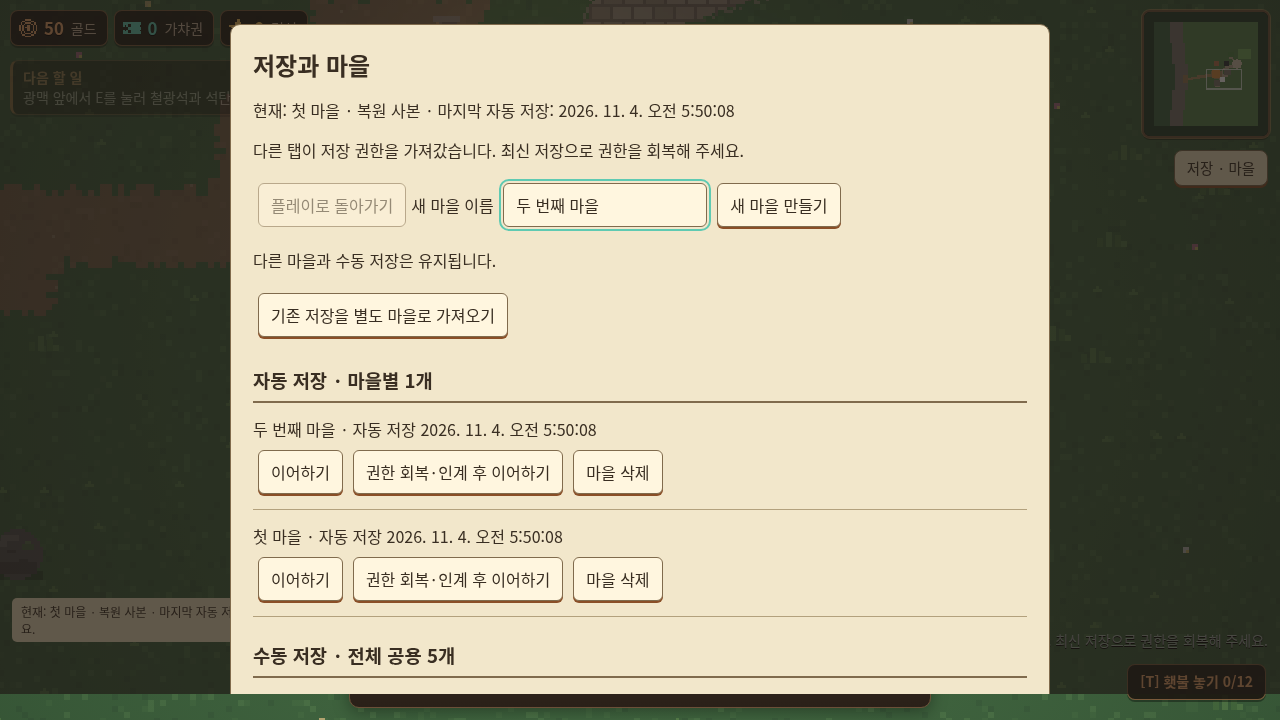
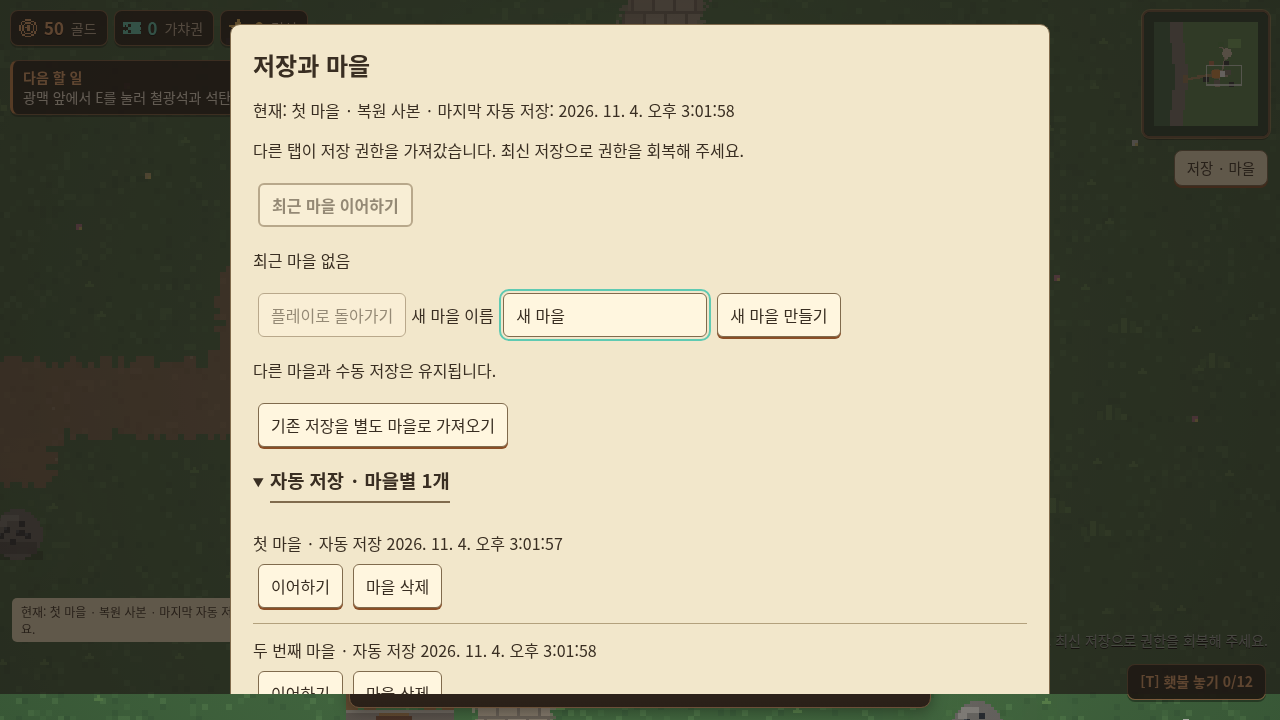
feat: streamline recent village resume and mobile save navigation

diff --git a/js/save-runtime.js b/js/save-runtime.js
@@ -15,7 +15,7 @@ const S2Runtime = {
   fresh(){return this.payload(freshRunState(),JSON.parse(this.initialPermanent));},
   enqueue(fn){const job=this.tail.then(fn);this.tail=job.catch(()=>{});return job;},
   fail(error){
-    const labels={OWNERSHIP:'다른 탭이 저장 권한을 가져갔습니다. 최신 저장으로 권한을 회복해 주세요.',OWNED:'다른 탭 또는 이전 세션이 소유 중입니다. 권한 인계를 선택해 주세요.',CONFLICT:'저장이 변경됐습니다. 목록을 새로 확인해 주세요.',INVALID_SAVE:'손상되었거나 지원하지 않는 저장입니다. 원본은 유지됩니다.',MISSING:'마을이 삭제됐습니다. 다른 마을을 선택해 주세요.',LEGACY_CHANGED:'기존 저장이 변경됐습니다. 다시 확인해 주세요.',UNAVAILABLE:'브라우저 저장소를 사용할 수 없습니다. 기존 저장은 유지됩니다.'};
+    const labels={CANCELED:'이어하기를 취소했습니다.',OWNERSHIP:'다른 탭이 저장 권한을 가져갔습니다. 최신 저장으로 권한을 회복해 주세요.',OWNED:'다른 탭 또는 이전 세션이 소유 중입니다. 권한 인계를 선택해 주세요.',CONFLICT:'저장이 변경됐습니다. 목록을 새로 확인해 주세요.',INVALID_SAVE:'손상되었거나 지원하지 않는 저장입니다. 원본은 유지됩니다.',MISSING:'마을이 삭제됐습니다. 다른 마을을 선택해 주세요.',LEGACY_CHANGED:'기존 저장이 변경됐습니다. 다시 확인해 주세요.',UNAVAILABLE:'브라우저 저장소를 사용할 수 없습니다. 기존 저장은 유지됩니다.'};
     this.message=labels[error.code]||'저장 실패: 저장 공간 또는 브라우저 권한을 확인해 주세요. 이전 저장은 유지됩니다.';
     if(['OWNERSHIP','MISSING'].includes(error.code)){this.session=null;this.generation++;this.menuOpen=true;this.clearInput();}
     this.status();return false;
@@ -62,7 +62,30 @@ const S2Runtime = {
     });
   },
   newVillage(name){return this.transition(current=>this.engine.create(this.fresh(),name||'새 마을',current));},
-  resume(id,takeover=false){return this.transition(async current=>{const candidate=await this.engine.read(id);this.decode(candidate.snapshot.payload);return this.engine.claim(id,takeover,current,candidate);});},
+  async startPresence(){
+    if(!navigator.locks)return;
+    // Owner liveness is a document-lifetime lock, never a heartbeat timeout.
+    await new Promise((resolve,reject)=>{
+      this.presenceTask=navigator.locks.request(SAVE_BASE_KEY+'.s2.owner.'+this.engine.owner,async()=>{
+        this.engine.presenceProtocol='web-lock-v1';resolve();
+        await new Promise(release=>{this.releasePresence=release;});
+      }).catch(reject);
+    });
+  },
+  resume(id,takeover=false){return this.transition(async current=>{
+    const candidate=await this.engine.read(id);this.decode(candidate.snapshot.payload);
+    const claim=(force=false,recover=null)=>this.engine.claim(id,force,current,candidate,recover);
+    if(takeover||!candidate.owner||candidate.owner===this.engine.owner)return claim(takeover);
+    const confirmLive=()=>{
+      if(!confirm('다른 탭이 사용 중이거나 권한 상태를 확인할 수 없습니다. 저장 권한을 인계하고 마지막 저장부터 이어 할까요? 저장되지 않은 진행은 가져오지 않습니다.'))throw SaveEngine.error('CANCELED');
+      return claim(true);
+    };
+    if(candidate.presence==='web-lock-v1'&&navigator.locks){
+      // Hold this old-owner lock through the fenced IDB claim (no check/use gap).
+      return navigator.locks.request(SAVE_BASE_KEY+'.s2.owner.'+candidate.owner,{ifAvailable:true},lock=>lock?claim(false,candidate.owner):confirmLive());
+    }
+    return confirmLive();
+  });},
   restore(row){return this.transition(async current=>{this.decode(row.snapshot.payload);return this.engine.restore(current,row.id,row.revision,row.snapshot.id);});},
   manual(slot,expected){
     if(!this.session||this.transitioning)return Promise.resolve(false);
@@ -102,7 +125,7 @@ const S2Runtime = {
   async start(){
     this.started=true;this.initialPermanent=JSON.stringify(permanent);this.mount();this.menuOpen=true;this.status();
     try{
-      this.engine=await SaveEngine.open(SAVE_BASE_KEY);
+      this.engine=await SaveEngine.open(SAVE_BASE_KEY);await this.startPresence();
       const history=await this.engine.history(SAVE_BASE_KEY),raw=localStorage.getItem(SAVE_BASE_KEY);
       let migrated=null;
       if(raw!==null&&!history.length)migrated=await this.importLegacy();
@@ -125,7 +148,9 @@ const S2Runtime = {
   mount(){
     const button=document.createElement('button');button.id='s2Open';button.type='button';button.textContent='저장 · 마을';button.onclick=()=>{this.menuOpen=true;this.clearInput();this.renderMenu();this.status();this.root.querySelector('[data-s2-close]').focus();};document.body.appendChild(button);
     const status=document.createElement('div');status.id='s2Status';status.setAttribute('role','status');document.body.appendChild(status);
-    const root=document.createElement('section');root.id='s2Menu';root.tabIndex=-1;root.setAttribute('role','dialog');root.setAttribute('aria-modal','true');root.setAttribute('aria-label','저장과 마을 관리');root.innerHTML='<div class="s2-paper"><h2>저장과 마을</h2><p data-s2-current></p><p data-s2-message role="status"></p><button type="button" data-s2-close>플레이로 돌아가기</button><label>새 마을 이름 <input data-s2-name maxlength="40" value="새 마을"></label><button type="button" data-s2-new>새 마을 만들기</button><p>다른 마을과 수동 저장은 유지됩니다.</p><button type="button" data-s2-import>기존 저장을 별도 마을로 가져오기</button><h3>자동 저장 · 마을별 1개</h3><div data-s2-autos></div><h3>수동 저장 · 전체 공용 5개</h3><div data-s2-manuals></div></div>';document.body.appendChild(root);this.root=root;
+    const root=document.createElement('section');root.id='s2Menu';root.tabIndex=-1;root.setAttribute('role','dialog');root.setAttribute('aria-modal','true');root.setAttribute('aria-label','저장과 마을 관리');root.innerHTML='<div class="s2-paper"><h2>저장과 마을</h2><p data-s2-current></p><p data-s2-message role="status"></p><button type="button" data-s2-recent disabled>최근 마을 이어하기</button><p data-s2-recent-label></p><button type="button" data-s2-close>플레이로 돌아가기</button><label>새 마을 이름 <input data-s2-name maxlength="40" value="새 마을"></label><button type="button" data-s2-new>새 마을 만들기</button><p>다른 마을과 수동 저장은 유지됩니다.</p><button type="button" data-s2-import>기존 저장을 별도 마을로 가져오기</button><details data-s2-auto-section open><summary><h3>자동 저장 · 마을별 1개</h3></summary><div data-s2-autos></div></details><details data-s2-manual-section open><summary><h3>수동 저장 · 전체 공용 5개</h3></summary><div data-s2-manuals></div></details></div>';document.body.appendChild(root);this.root=root;
+    if(typeof matchMedia==='function'&&matchMedia('(max-width:600px)').matches)root.querySelector('[data-s2-manual-section]').open=false;
+    root.querySelector('[data-s2-recent]').onclick=()=>{if(this.recentId)this.resume(this.recentId);};
     root.querySelector('[data-s2-close]').onclick=()=>{if(this.session){this.menuOpen=false;this.status();button.focus();}};
     root.querySelector('[data-s2-new]').onclick=()=>this.newVillage(root.querySelector('[data-s2-name]').value.trim()||'새 마을');
     root.querySelector('[data-s2-import]').onclick=()=>{
@@ -138,7 +163,7 @@ const S2Runtime = {
       if(root.contains(e.target)||button.contains(e.target)){
         if(e.type==='keydown'&&e.key==='Escape'&&this.session){this.menuOpen=false;this.status();button.focus();e.preventDefault();}
         if(e.type==='keydown'&&e.key==='Tab'){
-          const elements=[...root.querySelectorAll('button:not(:disabled),input')].filter(x=>!x.hidden),first=elements[0],last=elements.at(-1);
+          const elements=[...root.querySelectorAll('button:not(:disabled),input,summary')].filter(x=>!x.hidden&&x.getClientRects().length),first=elements[0],last=elements.at(-1);
           if(e.shiftKey&&document.activeElement===first){e.preventDefault();last?.focus();}else if(!e.shiftKey&&document.activeElement===last){e.preventDefault();first?.focus();}
         }
         // Prevent letter shortcuts in the game from handling dialog keys.
@@ -155,12 +180,15 @@ const S2Runtime = {
     this.root.querySelector('[data-s2-import]').disabled=!this.engine||this.transitioning;
     if(!this.engine){if(this.menuOpen)this.root.focus();return;}
     try{
-      const data=await this.engine.list();
+      const data=await this.engine.list();this.recentId=data.recent;
+      const recent=data.villages.find(v=>v.id===data.recent);
+      this.root.querySelector('[data-s2-recent]').disabled=!recent||this.transitioning;
+      this.root.querySelector('[data-s2-recent-label]').textContent=recent?'최근 플레이: '+recent.name:'최근 마을 없음';
       const stamp=n=>new Date(n).toLocaleString('ko-KR');
       const add=(host,text,buttons)=>{const row=document.createElement('div');row.className='s2-row';const label=document.createElement('p');label.textContent=text;row.appendChild(label);for(const [name,fn,disabled]of buttons){const b=document.createElement('button');b.type='button';b.textContent=name;b.disabled=!!disabled||this.transitioning;b.onclick=fn;row.appendChild(b);}host.appendChild(row);};
       const autos=this.root.querySelector('[data-s2-autos]');autos.textContent='';
-      for(const v of data.villages){add(autos,(v.id===this.session?.id?'현재 플레이 · ':'')+v.name+' · 자동 저장 '+stamp(v.savedAt)+(v.source?' · 복원 사본':''),[
-        ['이어하기',()=>this.resume(v.id)],['권한 회복·인계 후 이어하기',()=>{if(confirm('다른 탭의 저장 권한을 해제하고 마지막 저장부터 이어 합니다. 저장되지 않은 진행은 가져오지 않습니다.'))this.resume(v.id,true);}],
+      for(const v of data.villages){add(autos,(v.id===this.session?.id?'현재 플레이 · ':'')+(v.id===data.recent?'최근 마을 · ':'')+v.name+' · 자동 저장 '+stamp(v.savedAt)+(v.source?' · 복원 사본':''),[
+        ['이어하기',()=>this.resume(v.id)],
         ['마을 삭제',()=>{if(confirm(v.name+'의 자동 저장을 삭제합니다. 저장하지 않은 진행은 사라지며 수동 저장은 유지됩니다.'))this.removeVillage(v);}]
       ]);}
       const manuals=this.root.querySelector('[data-s2-manuals]');manuals.textContent='';

diff --git a/js/save-engine.js b/js/save-engine.js
@@ -42,29 +42,33 @@ class SaveEngine {
     if(v.revision!==s.revision)throw SaveEngine.error('CONFLICT');
     this.session(v,await t.get('autos',v.id));return v;
   }
-  session(v,a) { this.valid(a);if(a.id!==v.id||a.snapshot.villageId!==v.id||a.revision!==v.revision)throw SaveEngine.error('INVALID_SAVE');return {id:v.id,epoch:v.epoch,revision:v.revision,name:v.name,snapshot:a.snapshot}; }
+  session(v,a) { this.valid(a);if(a.id!==v.id||a.snapshot.villageId!==v.id||a.revision!==v.revision)throw SaveEngine.error('INVALID_SAVE');return {id:v.id,epoch:v.epoch,revision:v.revision,name:v.name,owner:v.owner,presence:v.presence||null,snapshot:a.snapshot}; }
   async release(t,v) { if(v){v.owner=null;v.epoch++;await t.put('villages',v);} }
   async insert(t,p,name,source,owned=true) {
     const id=SaveEngine.id(),snapshot=this.snapshot(p,id,name);
-    const v={id,name,createdAt:Date.now(),savedAt:p.savedAt,revision:1,epoch:owned?1:0,owner:owned?this.owner:null,source:source||null};
+    const v={id,name,createdAt:Date.now(),savedAt:p.savedAt,revision:1,epoch:owned?1:0,owner:owned?this.owner:null,presence:owned?this.presenceProtocol||null:null,source:source||null};
     // add, never put: an ID collision must not overwrite an existing village.
     await t.add('villages',v);const a={id,revision:1,snapshot};await t.add('autos',a);return this.session(v,a);
   }
+  async recent(t,id){await t.put('migrations',{id:'s2:recent',kind:'preference',villageId:id,playedAt:Date.now()});}
   async create(p,name,current=null) {
-    this.payload(p);return this.tx(['villages','autos'],true,async t=>{
-      const old=await this.guard(t,current);const s=await this.insert(t,p,name);await this.release(t,old);return s;
+    this.payload(p);return this.tx(['villages','autos','migrations'],true,async t=>{
+      const old=await this.guard(t,current);const s=await this.insert(t,p,name);await this.release(t,old);await this.recent(t,s.id);return s;
     });
   }
   async read(id) {return this.tx(['villages','autos'],false,async t=>{const v=await t.get('villages',id);if(!v)throw SaveEngine.error('MISSING');return this.session(v,await t.get('autos',id));});}
-  async list() {return this.tx(['villages','manual'],false,async t=>({villages:await t.all('villages'),manual:await t.all('manual')}));}
-  async claim(id,takeover=false,current=null,expected=null) {
-    return this.tx(['villages','autos'],true,async t=>{
+  async list() {return this.tx(['villages','manual','migrations'],false,async t=>{const villages=await t.all('villages'),recent=await t.get('migrations','s2:recent');return {villages,manual:await t.all('manual'),recent:villages.some(v=>v.id===recent?.villageId)?recent.villageId:null};});}
+  async claim(id,takeover=false,current=null,expected=null,recoveryOwner=null) {
+    return this.tx(['villages','autos','migrations'],true,async t=>{
       const old=await this.guard(t,current),v=await t.get('villages',id);
-      if(!v)throw SaveEngine.error('MISSING');if(v.owner&&v.owner!==this.owner&&!takeover)throw SaveEngine.error('OWNED');
+      if(!v)throw SaveEngine.error('MISSING');
+      const recovered=recoveryOwner&&v.owner===recoveryOwner&&v.epoch===expected?.epoch&&v.presence==='web-lock-v1';
+      if(recoveryOwner&&!recovered)throw SaveEngine.error('CONFLICT');
+      if(v.owner&&v.owner!==this.owner&&!takeover&&!recovered)throw SaveEngine.error('OWNED');
       const a=await t.get('autos',id);this.session(v,a);
       if(expected&&(a.revision!==expected.revision||a.snapshot.id!==expected.snapshot.id))throw SaveEngine.error('CONFLICT');
       if(old&&old.id!==id)await this.release(t,old);
-      v.owner=this.owner;v.epoch++;await t.put('villages',v);return this.session(v,a);
+      v.owner=this.owner;v.presence=this.presenceProtocol||null;v.epoch++;await t.put('villages',v);await this.recent(t,v.id);return this.session(v,a);
     });
   }
   async authority(s) {return this.tx(['villages'],false,async t=>{const v=await t.get('villages',s.id);return !!v&&v.owner===this.owner&&v.epoch===s.epoch;});}
@@ -85,12 +89,12 @@ class SaveEngine {
     });
   }
   async restore(current,n,expected,snapshotId) {
-    this.slot(n);return this.tx(['villages','autos','manual'],true,async t=>{
+    this.slot(n);return this.tx(['villages','autos','manual','migrations'],true,async t=>{
       const old=await this.guard(t,current),row=await t.get('manual',n);this.valid(row);
       if(row.revision!==expected||row.snapshot.id!==snapshotId)throw SaveEngine.error('CONFLICT');
       const p=this.payload(row.snapshot.payload);p.savedAt=Date.now();
       const s=await this.insert(t,p,row.snapshot.name+' · 복원 사본',{villageId:row.snapshot.villageId,snapshotId,slot:n});
-      await this.release(t,old);return s;
+      await this.release(t,old);await this.recent(t,s.id);return s;
     });
   }
   async removeVillage(id,revision,epoch) {

diff --git a/css/style.css b/css/style.css
@@ -702,3 +702,4 @@
 #s2Menu button:disabled{opacity:.5}#s2Menu button:focus-visible,#s2Open:focus-visible{outline:3px solid #315e80;outline-offset:2px}
 #s2Menu .s2-row{padding:10px 0;border-bottom:1px solid #b3a17d}#s2Menu .s2-row p{margin:4px 0;overflow-wrap:anywhere}
 @media(max-width:600px){#s2Menu{padding:8px}#s2Menu .s2-paper{padding:12px}#s2Open{top:140px}#s2Status{bottom:88px;max-width:calc(100vw - 24px);font-size:11px}}
+#s2Menu summary{cursor:pointer;min-height:44px;padding:6px 0}#s2Menu summary h3{display:inline-block;margin:8px 0}#s2Menu [data-s2-recent]{font-weight:bold;border-width:2px}#s2Menu [data-s2-recent-label]{overflow-wrap:anywhere}

diff --git a/docs/SAVE_S2.md b/docs/SAVE_S2.md
@@ -23,13 +23,13 @@ villageId/snapshotId는 UUID다. 자동 저장의 소유자는 마을 ID와 탭 
 
 자동 저장은 상태 복사본과 현재 마을/세션 세대를 함께 캡처해 순서대로 처리한다. 전환은 즉시 입력·시계를 멈추고, 앞선 저장을 기다리고 현재 마을을 저장한 후 새 마을을 원자적으로 활성화한다. 대기 중 권한을 잃으면 전환을 취소한다. 수동 복원은 같은 트랜잭션 안에서 원본 슬롯 ID/revision과 현재 writerEpoch를 재검사한다.
 
-재접속 또는 다른 탭에서는 마을 목록의 **권한 회복·인계 후 이어하기**로 명시적으로 권한을 회복한다. 저장되지 않은 다른 탭의 메모리는 합치지 않고 마지막 완료 저장을 다시 읽는다. 새 writerEpoch가 이전 탭의 자동·수동 저장을 거부한다. BroadcastChannel과 2초 권한 확인은 UI 갱신 수단이며 실제 쓰기 판정은 항상 DB 트랜잭션에서 수행한다. 타임아웃만으로 소유권을 몰래 가져오지 않는다.
+재접속 시 **최근 마을 이어하기** 또는 목록의 **이어하기**로 마지막 완료 저장을 읽는다. 최근 마을은 마을 생성·선택·수동 복원 완료와 같은 IDB 트랜잭션에서 기록하며 백그라운드 자동 저장은 이를 변경하지 않는다. 삭제된 대상은 최근 이어하기에서 제외하고, 기록이 없던 이전 S2 데이터의 최근 마을을 저장 시각으로 추정하지 않는다. 문서가 살아 있는 동안 owner UUID별 Web Lock을 유지한다. 이전 owner의 잠금이 비어 있음을 독점 잠금으로 확인한 경우에만 그 잠금을 유지한 채 owner/epoch/snapshot을 재검사해 확인창 없이 회복한다. 다른 탭이 살아 있거나 Web Locks 미지원·이전 프로토콜 등으로 생존 여부를 확인할 수 없으면 인계 확인을 유지한다. 저장되지 않은 다른 탭의 메모리는 합치지 않고 마지막 완료 저장을 다시 읽는다. 새 writerEpoch가 이전 탭의 자동·수동 저장을 거부한다. BroadcastChannel과 2초 권한 확인은 UI 갱신 수단이며 실제 쓰기 판정은 항상 DB 트랜잭션에서 수행한다. 타임아웃만으로 소유권을 몰래 가져오지 않는다.
 
 현재 마을 삭제는 명시적인 데이터 삭제 확인 뒤 수행하며 대기 중 저장을 무효화하고 마을 선택 화면으로 돌아간다. 다른 마을의 자동 저장과 모든 수동 원본은 유지한다. 수동 삭제는 해당 슬롯만 비운다. 오래된 마을을 자동 정리하지 않는다.
 
 ## UI와 검증
 
-저장 메뉴 상단과 플레이 화면에 현재 마을과 마지막 성공 자동 저장 시각을 표시한다. 자동 저장 목록과 수동5슬롯은 제목/설명/버튼으로 구분한다. 새 게임은 다른 저장을 보존하고, 수동 복원은 사본 생성임을 확인받는다. 덮어쓰기와 삭제는 표시한 저장의 revision을 재확인한다. 모바일은 세로 스크롤이며 모달 동안 게임 단축키·이동을 차단한다.
+저장 메뉴 상단과 플레이 화면에 현재 마을과 마지막 성공 자동 저장 시각을 표시한다. 자동 저장 목록과 수동5슬롯은 제목/설명/버튼으로 구분한다. 새 게임은 다른 저장을 보존하고, 수동 복원은 사본 생성임을 확인받는다. 덮어쓰기와 삭제는 표시한 저장의 revision을 재확인한다. 모바일은 자동/수동 저장을 각각 접고 펼칠 수 있으며 수동 영역은 처음에 접혀 있다. 모달 동안 게임 단축키·이동을 차단한다.
 
 검증 명령:
 
@@ -63,3 +63,12 @@ node tools/build-dist.js s2
 CI에서 모바일 목록의 비동기 렌더 완료 전에 행 개수를 읽는 검사 경합을 발견했다. 임의 sleep 대신 다섯 슬롯이 실제 표시되는 조건을 기다린 뒤 기존 count5 기대값을 확인하도록 수정했다. 실패 원인을 다운로드 로그 없이도 확인할 수 있도록 S2 검사 실패는 CI 주석에도 출력한다.
 
 최종 보호 수정: S2 runtime 스크립트가 로드되지 않은 실제 브라우저 진입은 기존 localStorage 부팅으로 돌아가지 않고 저장을 차단한다. 모듈404를 주입해 원문 불변/쓰기 거부를 확인했다. 수정본 전체 회귀 2,781/2,781, S2 Chromium 33개 그룹, 기존 smoke와 배포 파일 생성이 통과했다.
+
+
+## PR28 재접속 UX 보완
+
+기존 33개 브라우저 검사 그룹을 유지하고 5개 그룹을 추가했다: 최근 마을 표시/새로고침 후 한 번에 이어하기, 활성 탭 인계 확인·취소·수락 및 종료 탭 회복, Web Locks 미지원 시 확인 유지, 실제 브라우저 프로세스 종료/동일 임시 프로필 재실행, 모바일 독립 접기/펼치기. 최근 마을 삭제 시 이어하기 비활성화도 확인한다. 영구 브라우저 프로필 검증은 mkdtemp로 만든 전용 임시 디렉터리만 사용하고 종료 후 해당 디렉터리만 정리한다.
+
+저장 DB 스키마 버전이나 게임 saveVersion은 변경하지 않는다. 기존 migrations 영역에 key가 없는 내부 preference 레코드를 사용하므로 기존 key 기반 이전 기록/중복 방지와 분리된다. 이전 소유권에 생존 확인 프로토콜 표식이 없으면 안전하게 확인창을 유지한다. 별도 읽기 전용 검토에서 중요한 문제는 발견되지 않았다.
+
+UX 보완 최종 로컬 검증: 전체 회귀 2,781/2,781 통과(exit0), 기존 33개 그룹을 포함한 S2 Chromium 38개 그룹 통과(exit0), 기존 smoke·Biome·ZIP/단일 HTML 생성 통과. 모바일은 Chromium 에뮬레이션이며 로컬 file:// 직접 열기의 기존 환경 정책 제한은 그대로다. PR은 Draft로 유지하며 병합·배포/G4는 수행하지 않는다.

diff --git a/docs/superpowers/plans/2026-11-04-save-s2.md b/docs/superpowers/plans/2026-11-04-save-s2.md
@@ -30,3 +30,10 @@ Files: package.json, .github/workflows/quality.yml, docs/SAVE_S2.md.
 - [x] Commit/push and create develop Draft PR with concrete evidence. No automatic merge: user's direction here requires reporting implementation plan first and only merging after tests; leave reviewable PR unless explicitly requested to merge S2.
 
 Execution: inline, in dedicated branch from develop. Already approved design; proceed without another design approval loop.
+
+## PR28 UX follow-up
+
+- Persist most recently activated village in the activation transaction, not on background autosaves. Missing/deleted recent village yields no continue target.
+- Hold a per-document owner Web Lock before claiming/creating villages. Record the protocol with ownership. Recover without confirmation only while exclusively holding the previous owner's absent lock, with owner/epoch/snapshot rechecked in IDB. Live locks, old protocol and unsupported Web Locks retain explicit confirmation. Never use heartbeat timeout as proof of death.
+- Add recent continue button, recent village badge, and native collapsible auto/manual sections; preserve all 33 test groups and add lifecycle/ownership/UI tests.
+- Run full regression, real Chromium, smoke and CI. Keep Draft; no merge/deploy/G4.
